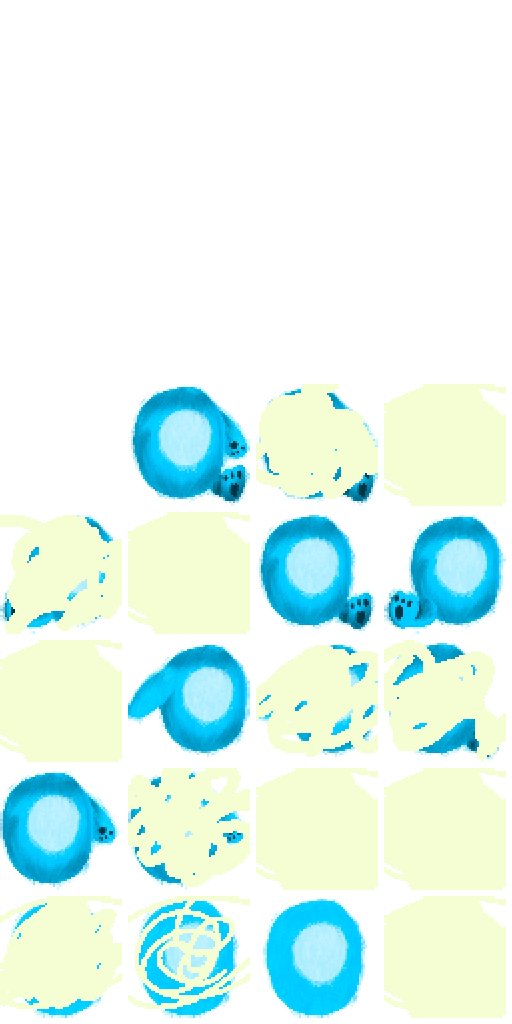
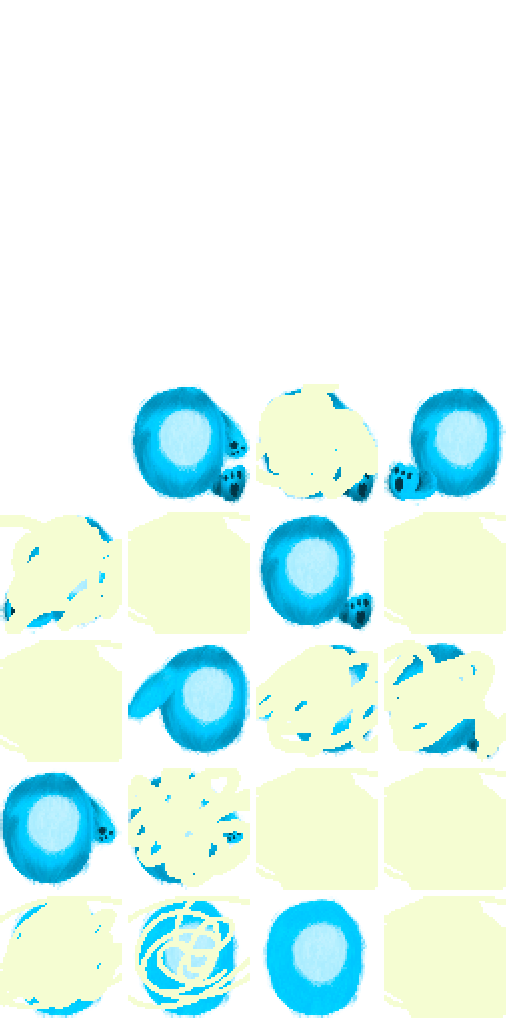
deploy: update game build for Playwright tests

Changed region(s): [[0.75, 0.375, 1.0, 0.625]]

diff --git a/scripts/main.js b/scripts/main.js
@@ -17,4 +17,4 @@
 "use strict";{const t="dispatchworker.js",r="jobworker.js";self.JobSchedulerDOM=class{constructor(t){this._runtimeInterface=t,this._maxNumWorkers=Math.min(navigator.hardwareConcurrency||2,16),this._dispatchWorker=null,this._jobWorkers=[],this._inputPort=null,this._outputPort=null}async Init(){if(this._hasInitialised)throw new Error("already initialised");this._hasInitialised=!0;const r=this._runtimeInterface.GetScriptFolder()+t;this._dispatchWorker=await this._runtimeInterface.CreateWorker(r,{name:"DispatchWorker"});const e=new MessageChannel;this._inputPort=e.port1,this._dispatchWorker.postMessage({"type":"_init","in-port":e.port2},[e.port2]),this._outputPort=await this._CreateJobWorker()}async _CreateJobWorker(){const t=this._jobWorkers.length,e=this._runtimeInterface.GetScriptFolder()+r,o=await this._runtimeInterface.CreateWorker(e,{name:"JobWorker"+t}),s=new MessageChannel,i=new MessageChannel;return this._dispatchWorker.postMessage({"type":"_addJobWorker","port":s.port1},[s.port1]),o.postMessage({"type":"init","number":t,"dispatch-port":s.port2,"output-port":i.port2},[s.port2,i.port2]),this._jobWorkers.push(o),i.port1}GetPortData(){return{"inputPort":this._inputPort,"outputPort":this._outputPort,"maxNumWorkers":this._maxNumWorkers}}GetPortTransferables(){return[this._inputPort,this._outputPort]}}}
 
 // start-export.js
-"use strict";if(window["C3_IsSupported"]){const e=true;window["c3_runtimeInterface"]=new self.RuntimeInterface({useWorker:e,workerMainUrl:"workermain.js",runtimeMainScript:"scripts/c3main.js",scriptFolder:"scripts/",exportType:"html5"})}
+"use strict";if(window["C3_IsSupported"]){const e=false;window["c3_runtimeInterface"]=new self.RuntimeInterface({useWorker:e,workerMainUrl:"workermain.js",runtimeMainScript:"scripts/c3main.js",scriptFolder:"scripts/",exportType:"html5"})}

diff --git a/scripts/project/javaScriptInEvents.js b/scripts/project/javaScriptInEvents.js
@@ -1,0 +1,18 @@
+
+
+const scriptsInEvents = {
+
+	async EventSheet1_Event50_Act1(runtime, localVars)
+	{
+		const toScreen = instance => {
+			const [x, y] = instance.layer.layerToCssPx(instance.x, instance.y);
+			return { uid: instance.uid, x, y };
+		};
+		runtime.setReturnValue(JSON.stringify({
+			details: runtime.objects.Detail.getAllInstances().map(toScreen),
+			bodies: runtime.objects.BodyGraphic.getAllInstances().map(toScreen)
+		}));
+	}
+};
+
+globalThis.C3.JavaScriptInEvents = scriptsInEvents;

diff --git a/scripts/objRefTable.js b/scripts/objRefTable.js
@@ -38,7 +38,8 @@ self.C3_GetObjectRefTable = function () {
 		C3.Plugins.Sprite.Cnds.PickByUID,
 		C3.Plugins.System.Cnds.CompareBoolVar,
 		C3.Plugins.Sprite.Acts.SetBoolInstanceVar,
-		C3.Plugins.Sprite.Acts.Destroy
+		C3.Plugins.Sprite.Acts.Destroy,
+		C3.JavaScriptInEvents.EventSheet1_Event50_Act1
 	];
 };
 self.C3_JsPropNameTable = [

diff --git a/scripts/c3main.js b/scripts/c3main.js
@@ -1,2 +1,3 @@
 import "./c3runtime.js";
 import "./objRefTable.js";
+import "./project/javaScriptInEvents.js";
